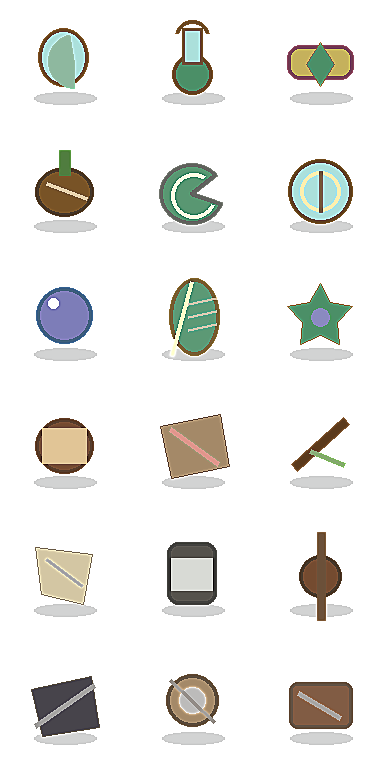
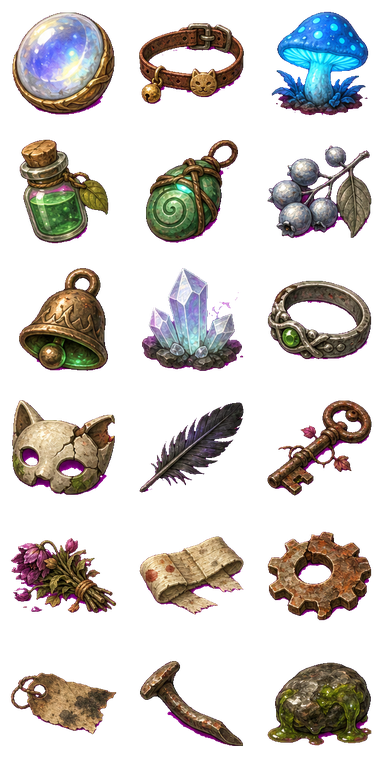
Improve collectible sprite art

diff --git a/docs/game.js b/docs/game.js
@@ -102,7 +102,7 @@ const ITEM_SHEET_COLUMNS = 3;
 const MAX_BURIED_ITEMS = 8;
 const DIG_SPOT_MIN_DISTANCE = 78;
 const MAX_LEVEL = 15;
-const ASSET_VERSION = "30";
+const ASSET_VERSION = "31";
 
 const stages = [
   {

diff --git a/docs/index.html b/docs/index.html
@@ -1520,6 +1520,6 @@
       </div>
       <div class="status" id="status"></div>
     </main>
-    <script src="game.js?v=30"></script>
+    <script src="game.js?v=31"></script>
   </body>
 </html>